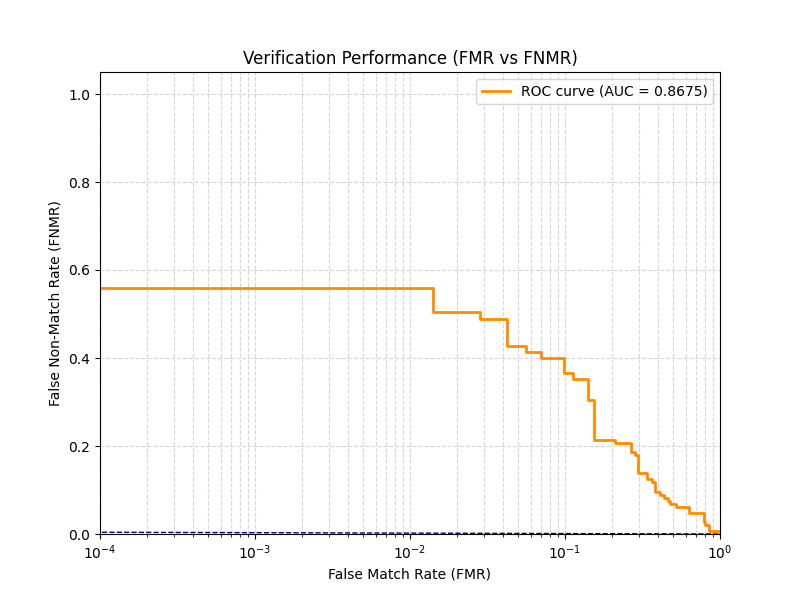
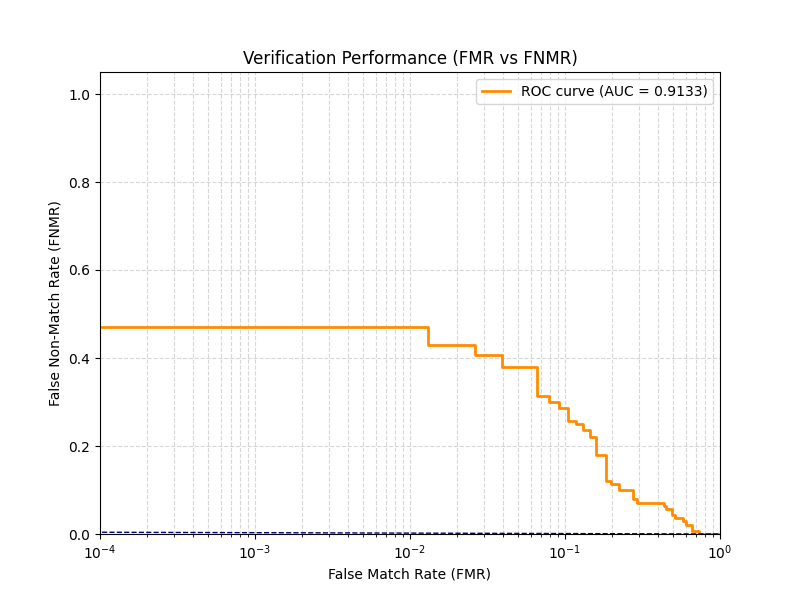
baseline quality-ranked selection 3-2/64.81 CRR

Changed region(s): [[0.125, 0.48, 0.7188, 0.66], [0.6875, 0.63, 0.9062, 0.9], [0.8438, 0.12, 0.875, 0.18]]

diff --git a/src/main.py b/src/main.py
@@ -91,7 +91,7 @@ def main():
 
             candidates = []
 
-            for img_file in os.listdir(sess_path):
+            for img_file in sorted(os.listdir(sess_path)):
                 if not img_file.endswith(cfg['data']['img_ext']):
                     continue
 
@@ -117,7 +117,7 @@ def main():
                     print(f"[ERROR] {img_file}: {e}")
 
             # sort by quality score (descending)
-            candidates.sort(key=lambda x: x["quality_score"], reverse=True)
+            candidates.sort(key=lambda x: (-x["quality_score"], x["img_file"]))
 
             # choose top-k depending on session
             if sess == str(cfg['data']['train_session']):
@@ -135,10 +135,12 @@ def main():
 
             # optional debug print
             if len(candidates) > 0:
+                selected_names = [item["img_file"] for item in selected]
                 print(
                     f"[SELECT] subject={subject}, session={sess}, "
                     f"kept={len(selected)}/{len(candidates)}, "
-                    f"best_score={selected[0]['quality_score']:.4f}"
+                    f"best_score={selected[0]['quality_score']:.4f}, "
+                    f"selected={selected_names}"
                 )
 
     X_train, y_train = np.array(train_feats), np.array(train_labels)

diff --git a/src/IrisMatching.py b/src/IrisMatching.py
@@ -38,7 +38,7 @@ class IrisMatcher:
             # PCA dimension cannot exceed min(n_samples, n_features)
             max_pca_dim = min(X_scaled.shape[0], X_scaled.shape[1])
             pca_dim = min(self.pca_components, max_pca_dim)
-            self.pca = PCA(n_components=pca_dim)
+            self.pca = PCA(n_components=pca_dim, svd_solver="full")
             X_pca = self.pca.fit_transform(X_scaled)
 
             # LDA dimension cannot exceed (#classes - 1)
